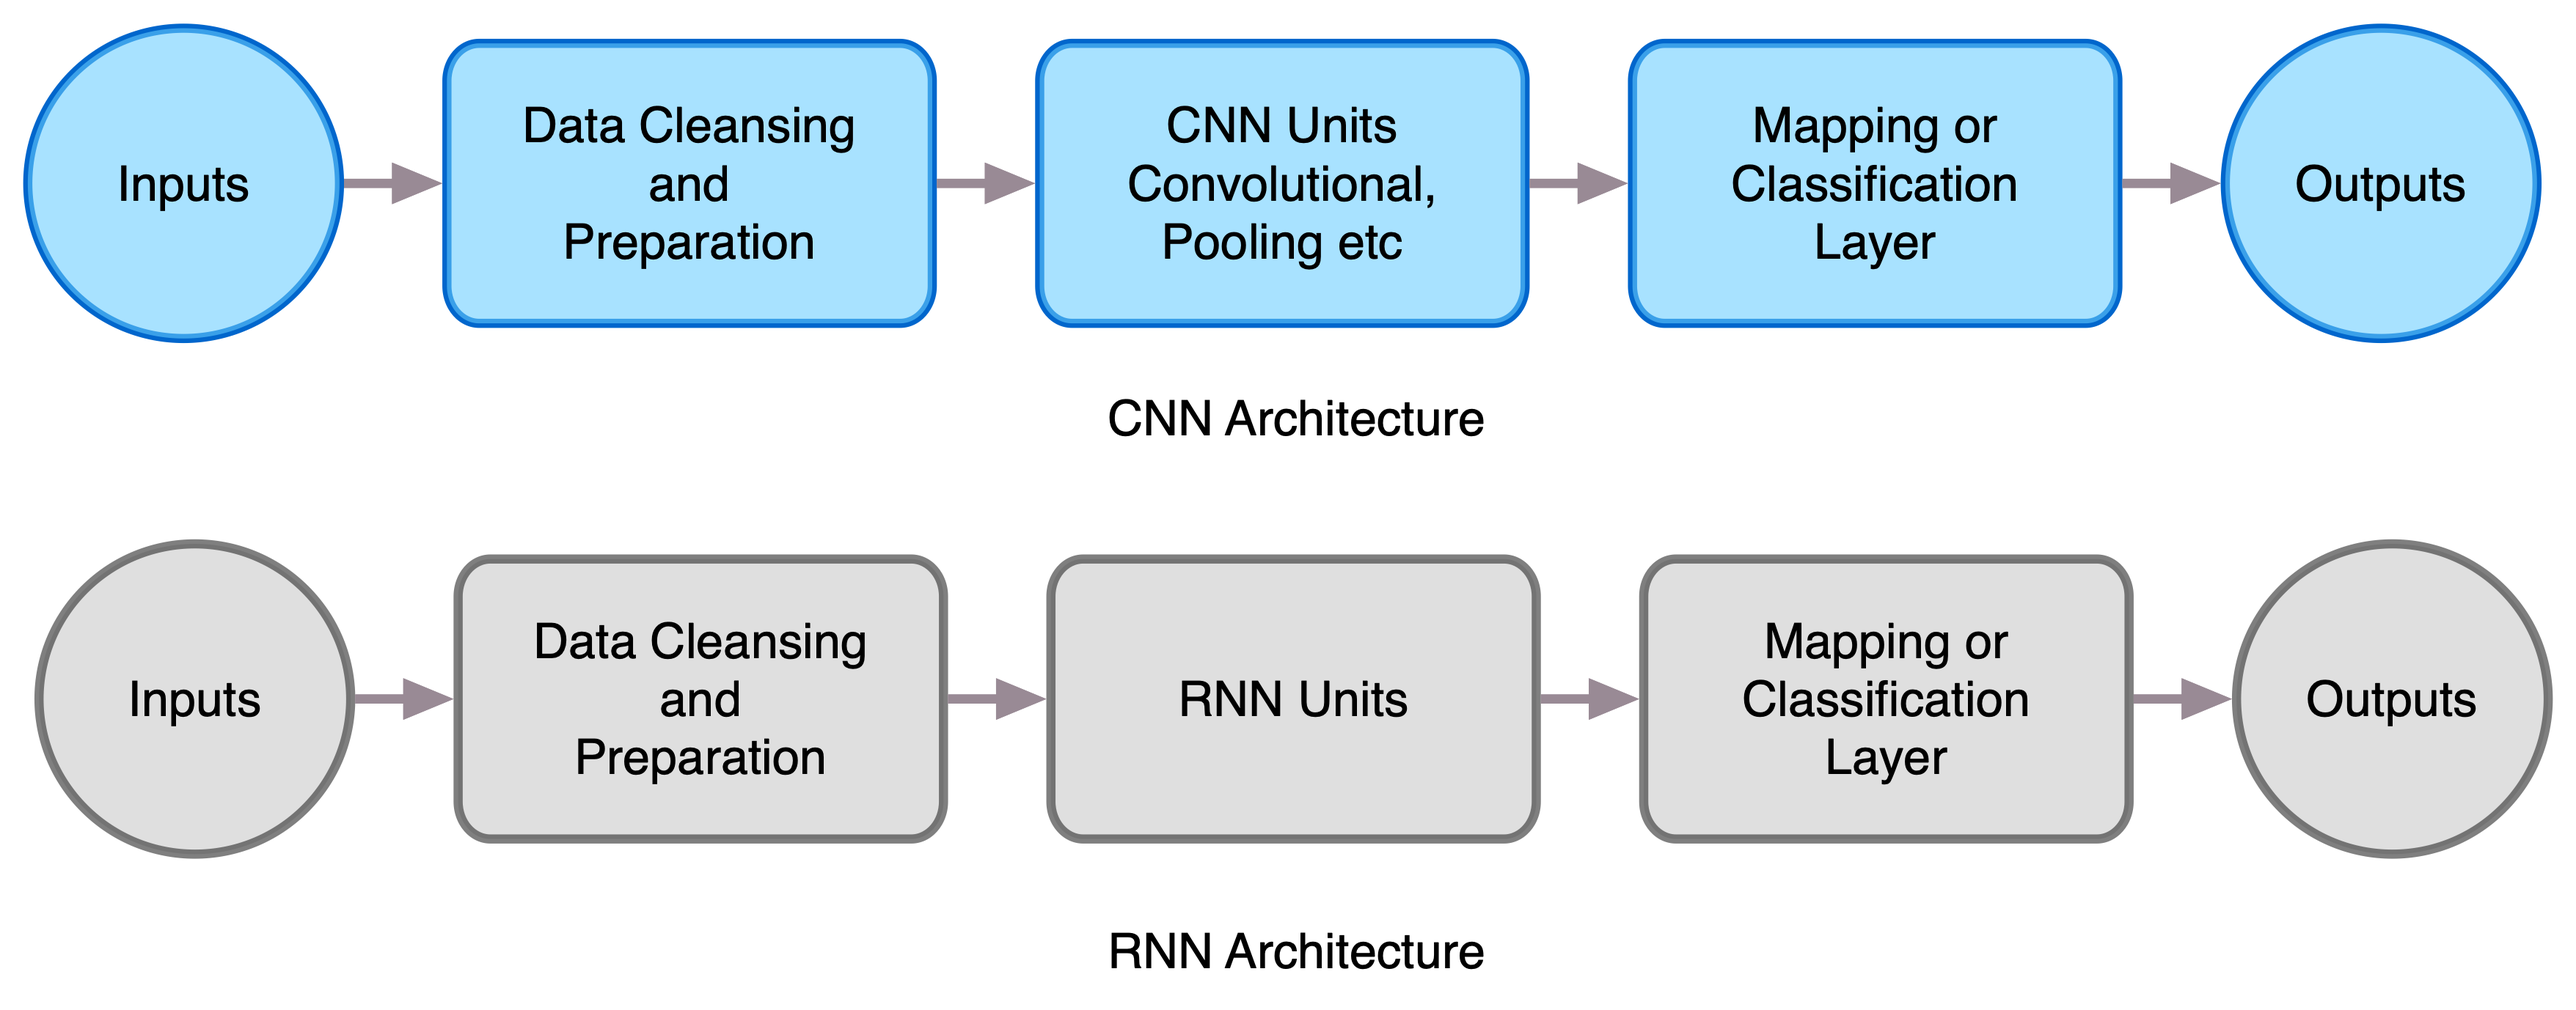
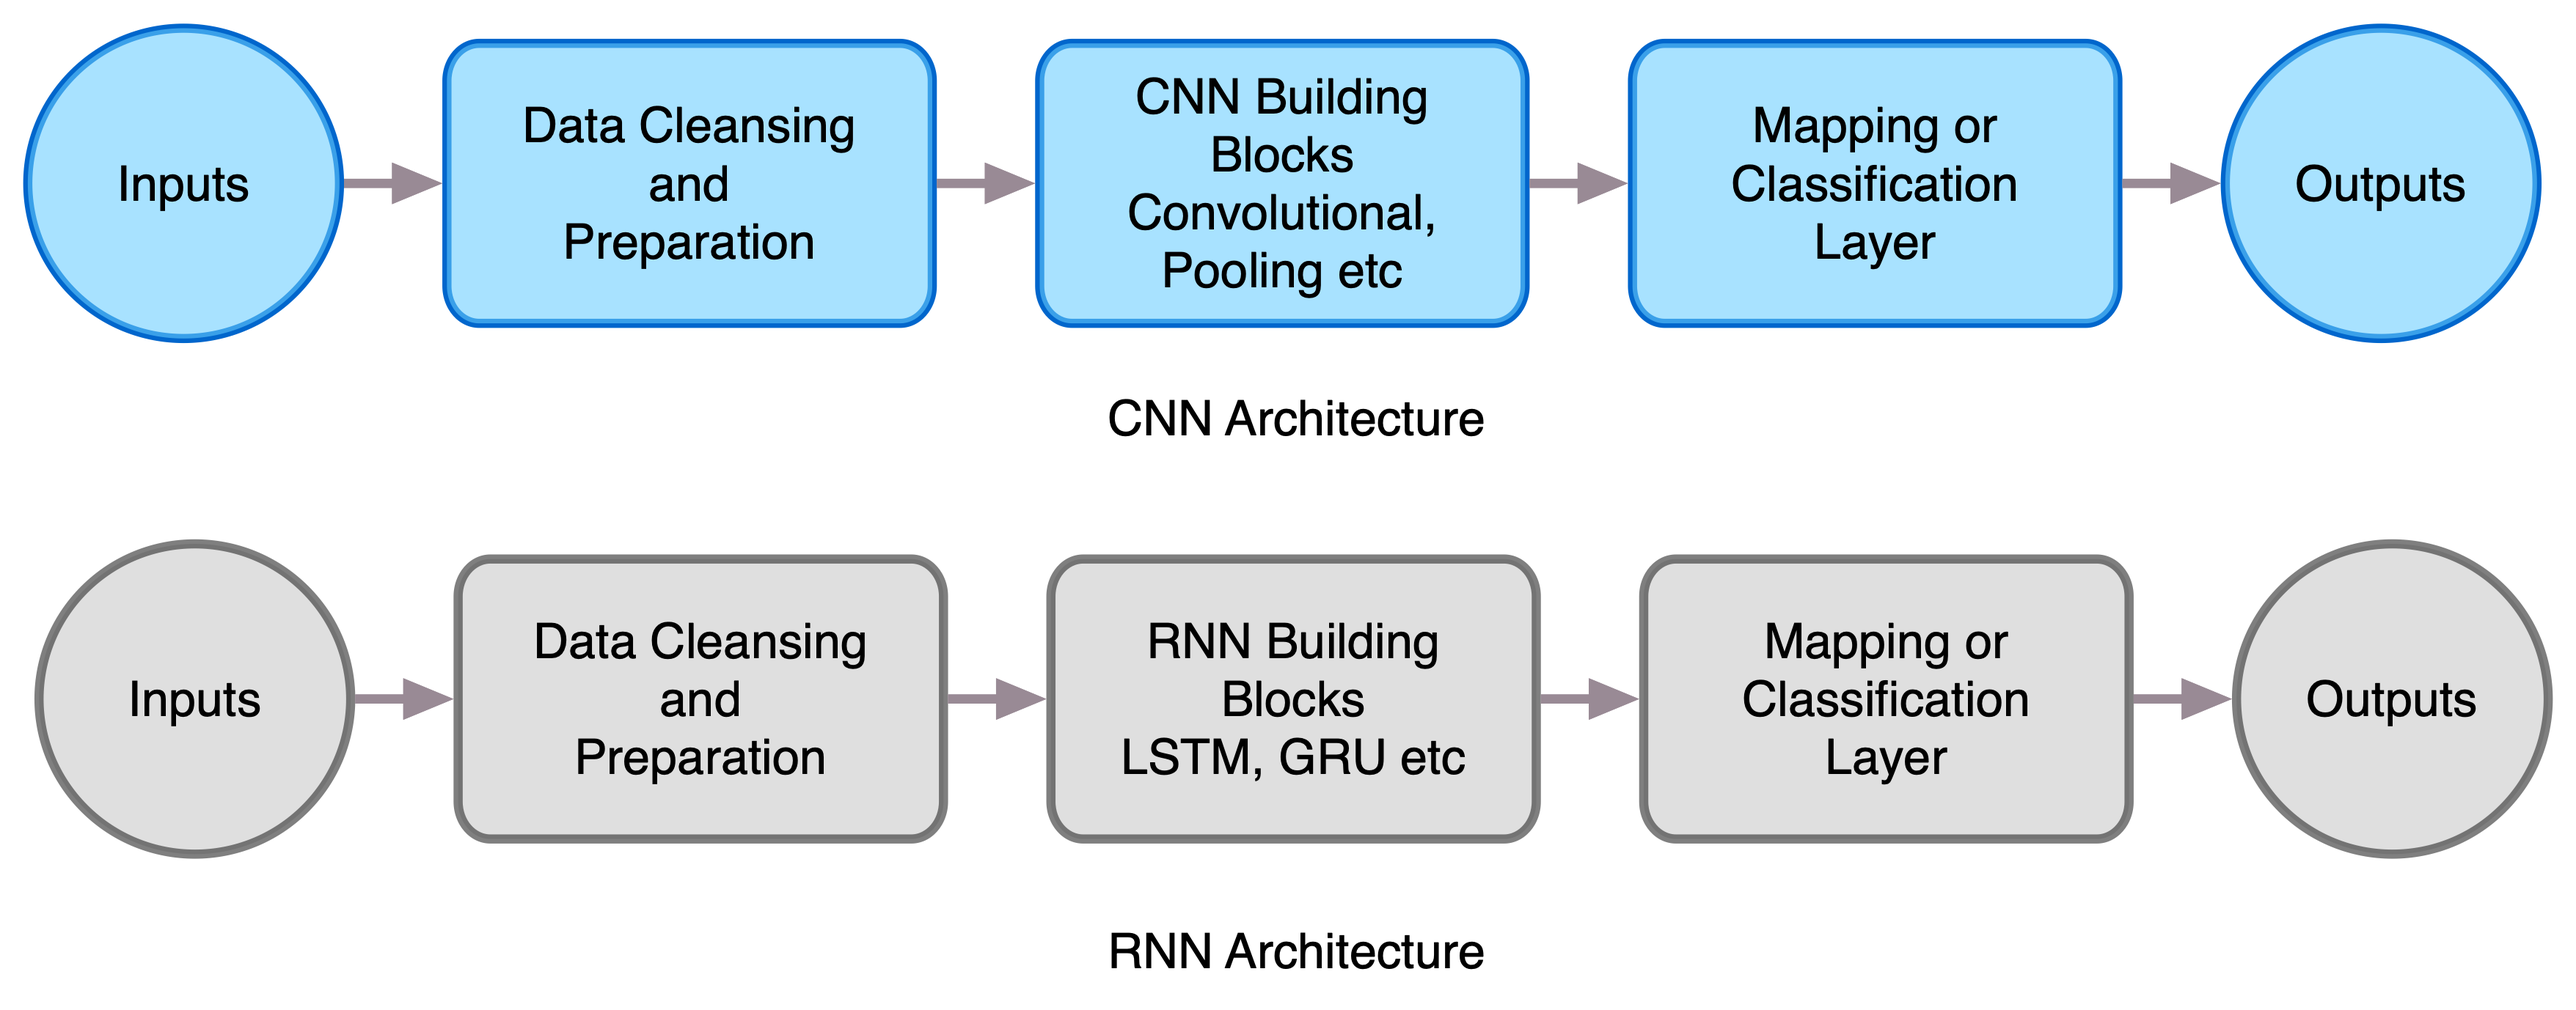
rnn architectures contd

Changed region(s): [[0.4345, 0.0624, 0.5587, 0.312], [0.4345, 0.6241, 0.5587, 0.7801]]

diff --git a/Chapter6/chap6.md b/Chapter6/chap6.md
@@ -10,6 +10,7 @@ The following topics will be covered in this chapter:
 - Building vector representation of words for NLP
 - Generating text or completing sentences using RNN and word vectors
 - Detecting words in speech/audio using RNNs
+- Advanced Topics in sequence modelling
 
 # Technical Requirements
 
@@ -25,7 +26,7 @@ For the mobile application pieces, an android-based mobile app will be built. It
 
 # Motivations for Recurrent Neural Networks
 
-Fully connected deep learning networks, as introduced in Chapter 1, are doing well in a wide variety of cases. However, there are specific architectures that work better for specific types of data. In Chapter 5, we saw an example of CNN architecture which has higher accuracy in computer vision domain. Another very important domain is of sequences. The conventional way to think about sequences is time-series data. Voice or speech data fits very well with this view. The audio waveform changes over time and is usually chunked into 10 ms pieces for use in deep learning. Another way to think of an audio file is to model it as a sequence of 10 ms chunks.
+Fully connected deep learning networks, as introduced in Chapter 1, are doing well in a wide variety of cases. However, there are specific architectures that work better for specific types of data. In Chapter 5, we saw an example of CNN architecture which has higher accuracy in computer vision domain. However, they have a limitation that they can process only one image at a time. If they are fed a sequence of images (like frames of a video), CNNs wont be able to process them. This domain of processing sequences is very important and has plenty of practical applications. The conventional way to think about sequences is time-series data. Voice or speech data fits very well with this view. The audio waveform changes over time and is usually chunked into 10 ms pieces for use in deep learning. Another way to think of an audio file is to model it as a sequence of 10 ms chunks.
 
 A not so obvious example of sequences may be language. A sentence in a language is a set of words. However, these words have a certain organization - that is these words make a sentence only if they are in a certain order or a _sequence_. So, each sentence is a sequence of words. Notice the similarity in structure between an audio file represented as a sequence of 10 ms chunks and a sentence represented as a sequence of words. With appropriate featurization, these can be fed to an RNN.
 
@@ -33,7 +34,7 @@ The concept of modeling sequences is a very important and powerful one. It can b
 
 - Robotic control: A robotic hand picking up an object needs to execute a set of steps, like rotation, extension, opening and closing the jaw. These sequences of steps can be modeled as a sequence. Using RNN architecture, these sequences can be learned for robotic control
 - Speech Synthesis: We talked about speech recognition earlier. Speech synthesis is the exact opposite problem to this - given a set of text, generate the audio for it. Speech synthesis has gained prominence with the advent of chatbots and assistants like Siri and Alexa. The synthesized voices need to sound normal and not robotic.
-- Handwriting recognition: The intuition behind this is the characters follow some distribution based on the language. Hence, the characters of a word and words in a sentence can be considered sequences. CNNs are used to extract features and coupled with RNNs to detect the right set of words. We will see this particular technique in this chapter by combining our CNN model from Chapter 5 with an RNN model to read sentences.
+- Handwriting recognition: The intuition behind this is the characters follow some distribution based on the language. Hence, the characters of a word and words in a sentence can be considered sequences. CNNs are used to extract features and then coupled with RNNs to detect the right set of words. We will see this particular technique in this chapter by combining our CNN model from Chapter 5 with an RNN model to read sentences.
 - Composing music: Given the periodic structure of music, it is a great application of RNN. It is one that brings the arts and computers closer. For some inspiration in composing music and art, check out
 
   <magenta.tensorflow.org>.</magenta.tensorflow.org>
@@ -44,7 +45,7 @@ Let's see whats makes RNN special so that they can help solve such a large class
 
 # RNN Architecture
 
-RNNs are built to handle sequences and learn structure from them. RNN does that by using the output generated after processing the previous item in the sequence along with the current item in the sequence to generate the next output.
+RNNs are built to handle sequences and learn the structure from them. RNN does that by using the output generated after processing the previous item in the sequence along with the current item to generate the next output.
 
 Mathematically, this can be expressed like so:
 
@@ -52,11 +53,44 @@ $$ f_t(x_t) = f(f_{t-1}(x_{t-1}), x_t; \theta) $$
 
 This equation says that to compute the output at time _t_, the output at _t-1_ is used as an input along with the input data $x_t$ at the same time step. Along with this, a set of parameters or learned weights, represented by $\theta$, are also used in computing the output. The objective of training an RNN is to learn these weights $\theta$. This particular formulation of RNN is unique. In previous examples, we have never used the output of a batch to determine the output of a future batch.
 
-Referring back to Fig 1-4, defining deep learning, the middle part of building hierarchical feature representations is performed by RNNs. There is still a need to use a classification or mapping layer at the end. However, this takes a slightly different form given that output of previous layers feeds into successive outputs. This aspect will be detailed later on in this chapter.
+Referring back to Fig 1-4, defining deep learning, the middle part of building hierarchical feature representations is performed by RNNs. There is still a need to use a classification or mapping layer at the end. However, this takes a slightly different form given the output of previous layers feeds into successive outputs. This aspect will be detailed later on in this chapter.
 
-![Figure 6-1: High Level RNN Architecture](images/chap6-rnn-architecture.png)
+![Figure 6-1: High-Level RNN Architecture](images/chap6-rnn-architecture.png)
 
-Figure 6-1 shows how the overall architecture is adapted for CNN and RNN architectures. In Chapter 5, we saw a number of data pre-processing and augmentation techniques to make the images ready for CNN. there are specific techniques that need to be used for natural language processing (NLP) and speech domain. These will be covered in a later section in this chapter [TODO: Maybe add a reference to it]. The middle part is what makes RNN and CNN architectures unique. The next section is focussed on explaining these unique characteristics. the last part of the architecture is the mapping or classification layer. This is quite similar across network architectures, and is usually a _softmax_ layer. We have seen this layer in several examples across different chapters. Please note that softmax is appropriate for classification. If you are trying to solve a different problem, a different output layer may be needed.
+Figure 6-1 shows how the overall architecture is adapted for CNN and RNN architectures. In Chapter 5, we saw several data pre-processing and augmentation techniques to make the images ready for CNN. There are specific techniques that need to be used for natural language processing (NLP) and speech domain. These will be covered in a later section in this chapter [TODO: Maybe add a reference to it].
+
+The middle part is what makes RNN and CNN architectures unique. The next section is focussed on explaining these unique characteristics. The last part of the architecture is the mapping or classification layer. This is quite similar across network architectures and is usually a _softmax_ layer. We have seen this layer in several examples across different chapters. Please note that softmax is appropriate for classification. If you are trying to solve a different problem, a different output layer may be needed.
+
+## RNN Building Blocks
+
+The previous section outlined the basic mathematical intuition of a recursive function that is a simplification of the RNN building block. Figure 6-2 represents a few time steps and also adds details to show different weights used for computation for a basic RNN building block or cell.
+
+![figure 6-2: Basic RNN cell](images/chap6-rnn-unravelled.png)
+
+TThe basic cell is shown on the left. Input vector at a specific time or sequence step _t_ is multiplied by a weight vector, represented in the diagram as _U_, to generate an activation in the middle part. The key part of this architecture is the loop in this activation part. The output of a previous step is multiplied by a weight vector, denoted by _V_ in the figure, and added to the activation. This activation can be multiplied by another weight vector, represented by _W_, to produce the output of that step shown at the top. In terms of sequence or time steps, this network can be unrolled. This unrolling is virtual. However, it is represented on the right side of the figure. Mathematically, activation at time step _t_ can be represented by:
+
+$$ a_t = Ux_t + V.a_{t-1} $$
+
+output at the same step can be computed like so:
+
+$$ o_t = W.a_t $$
+
+> > Info: This is very simplified mathematics to only provide intuition about RNNs.
+
+Structurally, the network is very simple as it is a single unit. To exploit and learn the structure of inputs passing through, weight vectors U, V, and W are shared across time steps. The network does not have layers as seen in fully connected or convolutional networks. However, as it is unrolled over time steps, it can be thought of as having as many layers as steps in the input sequences. there are additional criteria that would need to be satisfied to make a _Deep RNN_. More on that later in this section. These networks are trained using backpropagation and stochastic gradient descent techniques. The key thing to note here is that backpropagation is happening through the sequence or times steps instead of layers.
+
+Having this structure enables processing sequences of arbitrary lengths. However, as the length of sequences increases, there are a couple of challenges that emerge:
+
+- Vanishing and exploding gradients: As the length of these sequences increase, the gradients going back will become smaller and smaller. This will cause the network to train slowly or not learn at all. This effect will be more pronounced as sequence lengths increase. In the previous chapter, we built a network of a handful of layers. Here, a sentence of 10 words would equate a network of 10 layers. A 1 min audio sample of 10ms would generate 6,000 steps! Conversely, gradients can also explode if the output is increasing. The simplest way to manage vanishing gradients is through the use of ReLUs (described in Chapter 1). For managing exploding gradients, a technique gradient clipping is used. This technique artificially clips gradients if their magnitude exceeds a threshold. This prevents gradients from becoming too large.
+- Inability to manage long term dependencies: Let's say that the third word in an eleven-word sentence is highly informative. Here is a toy example: "I think _soccer_ is the most popular game across the world." As the processing reaches the end of the sentence, the contribution of words prior earlier in the sequence will become smaller and smaller due to repeated multiplication with the vector _V_ as shown above.
+
+Two specific RNN cell designs mitigate these problems: Long-Short Term Memory (LSTM) and Gated Recurrent Unit (GRU). These are described in the section next. However, note that TensorFlow provides implementations of both types of cells out of the box. So, building RNNs with these cell types is almost trivial.
+
+> TIP: Training RNNs is a very complicated process fraught with many frustrations. Modern tools such as TensorFlow do a great job of managing the complexity and reducing the pain to a great extent. However, training RNNs still is a challenging task. But the rewards of getting it right are well worth it.
+
+### Long-Short Term Memory (LSTM) cells
+
+### Gated Recurrent Units (GRUs)
 
 // Include examples, code, illustrations: explain complex concepts in clear, simple language
 
@@ -79,6 +113,10 @@ Figure 6-1 shows how the overall architecture is adapted for CNN and RNN archite
 // Address the readers pain points: Address common pain points and areas of confusion.
 
 // H2 - Add further subtopics as required
+
+# Advanced Topics in Sequence Modeling
+
+Attention is all you need BeRT and Transformer architectures
 
 # Summary
 
